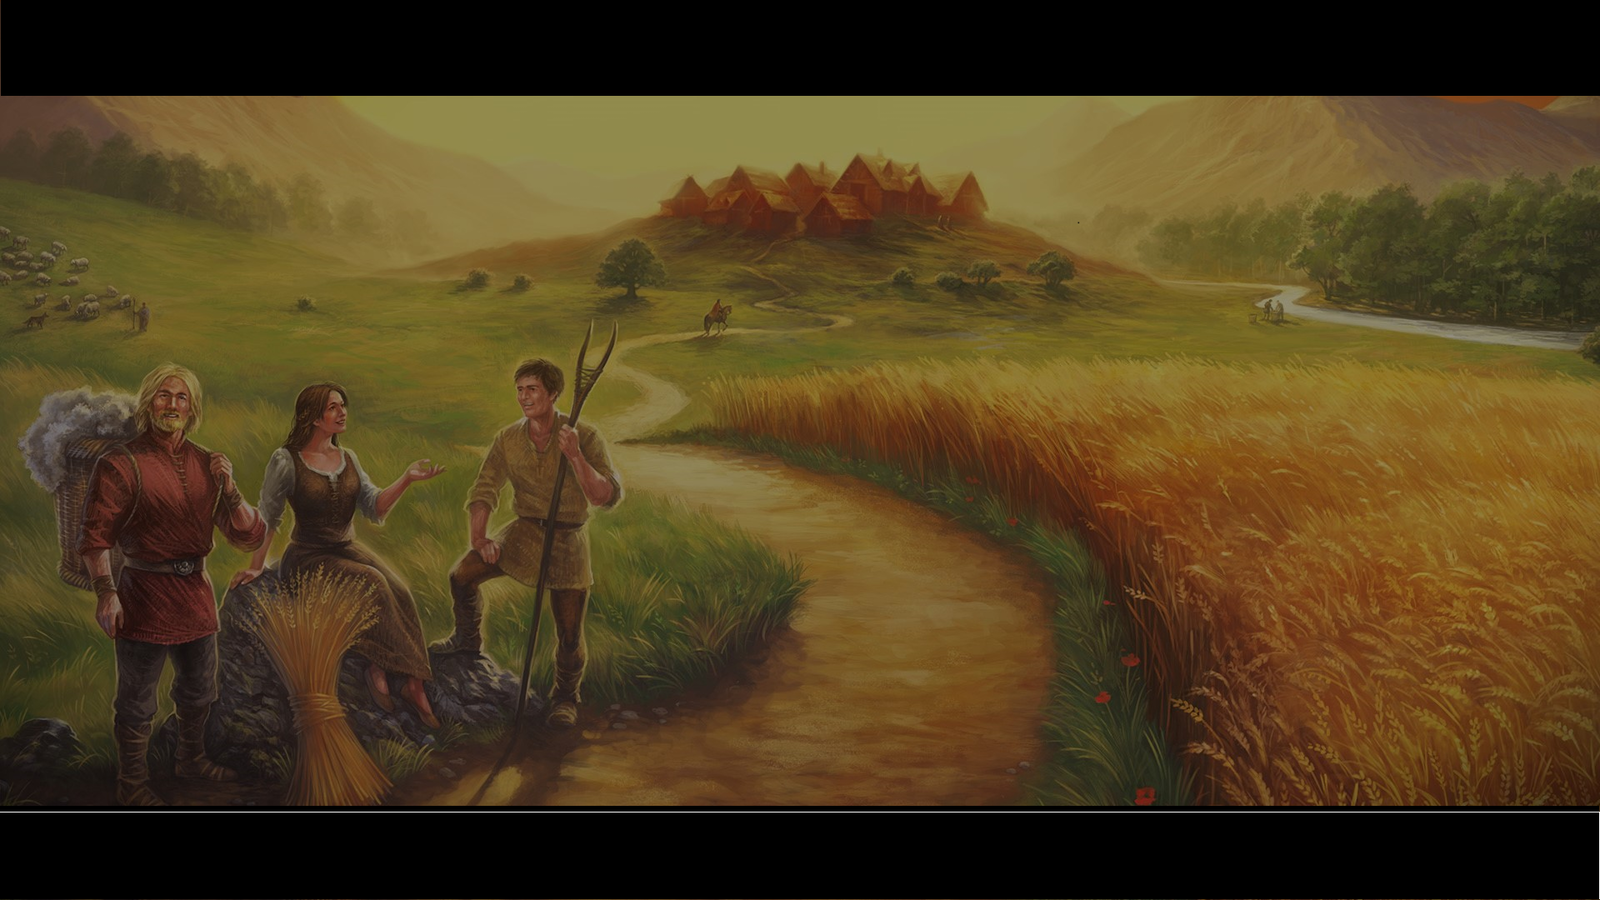
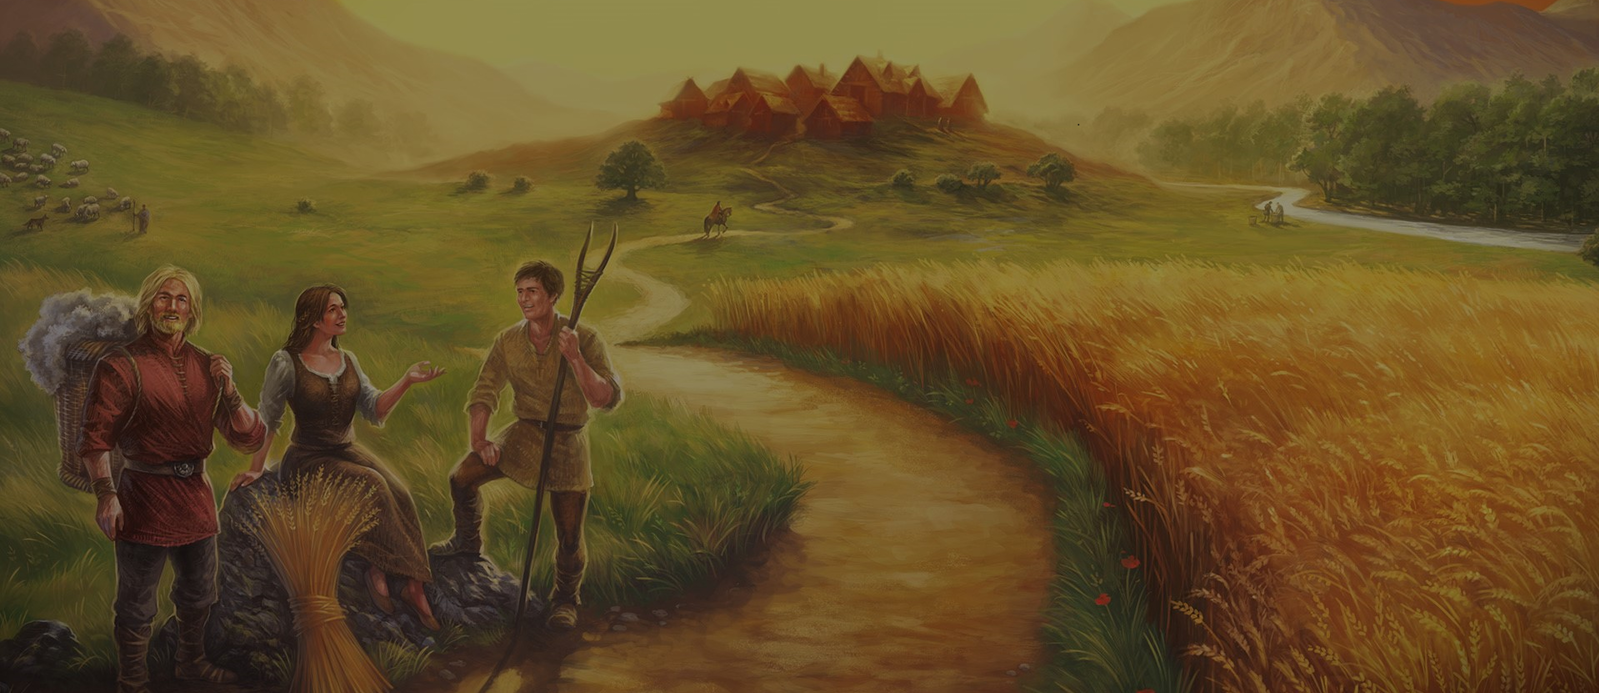
migrated menu to main.py using pygame_gui

diff --git a/main.py b/main.py
@@ -29,15 +29,14 @@ clock = pygame.time.Clock()
 def main_menu():
     '''Run game start menu'''
     is_running = True
-
-    start_game = pygame_gui.elements.UIButton(relative_rect=pygame.Rect((350, 275), (100, 50)),
-                                             text='Start Game',
+    background.blit(menu_background,(0,0))
+    start_game = pygame_gui.elements.UIButton(relative_rect=pygame.Rect((SCREEN_WIDTH // 3, SCREEN_HEIGHT // 3), (SCREEN_WIDTH / 4, 50)),
+                                             text='START GAME',
                                              manager=manager)
-    
-    
-
+    quit_game = pygame_gui.elements.UIButton(relative_rect=pygame.Rect((SCREEN_WIDTH // 3, SCREEN_HEIGHT // 2), (SCREEN_WIDTH / 4, 50)),
+                                             text='QUIT GAME',
+                                             manager=manager)
     while is_running:
-        background.fill(BLACK)
         time_delta = clock.tick(60)/1000.0
         for event in pygame.event.get():
             if event.type == pygame.QUIT:
@@ -47,7 +46,8 @@ def main_menu():
                 if event.ui_element == start_game:
                     mode_menu()
                     is_running = False
-
+                if event.ui_element == quit_game:
+                    is_running = False
             manager.process_events(event)
 
         manager.update(time_delta)
@@ -62,18 +62,23 @@ def mode_menu():
     '''Run menu page for game modes'''
     manager.clear_and_reset()
     is_running = True
+    background.blit(menu_background,(0,0))
+    option_label = pygame_gui.elements.UILabel(relative_rect=pygame.Rect((SCREEN_WIDTH // 3, SCREEN_HEIGHT//4), (SCREEN_WIDTH / 4, 50)),
+                                             text='Select Board Type',
+                                             manager=manager)
 
-    default_board = pygame_gui.elements.UIButton(relative_rect=pygame.Rect((350, 275), (100, 50)),
+    default_board = pygame_gui.elements.UIButton(relative_rect=pygame.Rect((SCREEN_WIDTH // 3, SCREEN_HEIGHT // 2), (SCREEN_WIDTH / 4, 50)),
                                              text='Default Board',
                                              manager=manager)
     
-    random_board = pygame_gui.elements.UIButton(relative_rect=pygame.Rect((350, 275 * 2), (100, 50)),
+    random_board = pygame_gui.elements.UIButton(relative_rect=pygame.Rect((SCREEN_WIDTH // 3, SCREEN_HEIGHT // 3), (SCREEN_WIDTH / 4, 50)),
                                              text='Random Board',
                                              manager=manager)
     
 
+
     while is_running:
-        background.fill(BLACK)
+        
         time_delta = clock.tick(60)/1000.0
         for event in pygame.event.get():
             if event.type == pygame.QUIT:
@@ -261,9 +266,10 @@ def import_assets():
     ore = pygame.image.load("assets\Ore.png").convert_alpha()
     wool = pygame.image.load("assets\Wool.png").convert_alpha()
     water = pygame.image.load("assets\Hex.png").convert_alpha()
-    return desert,brick,grain,lumber,ore,wool,water
+    menu_background = pygame.image.load("assets\menu_image.png").convert_alpha()
+    return desert,brick,grain,lumber,ore,wool,water, menu_background
 
-desert, brick, grain, lumber, ore, wool, water = import_assets()
+desert, brick, grain, lumber, ore, wool, water, menu_background = import_assets()
 
 def textureToVal(value):
     '''Converts resources for a tile into a texture'''
@@ -308,7 +314,8 @@ def draw_board(board, destination):
             pass
         if board.tiles[coord] != 'Water':
            destination.blit(textureToVal(board.tiles[coord].resource),hexToPixel(75,coord.q,coord.r, 0))
-           pygame_gui.elements.UILabel(relative_rect=pygame.Rect(hexToPixel(75,coord.q,coord.r, 0)[0],hexToPixel(75,coord.q,coord.r, 0)[1],150,150),text=str(board.tiles[coord].returnNum()),object_id=pygame_gui.core.ObjectID(class_id='@rollNums'),manager=manager)
+           pygame.draw.circle(destination,WHITE,(hexToPixel(75,coord.q,coord.r, 70)[0],hexToPixel(75,coord.q,coord.r, 70)[1]),20)
+           pygame_gui.elements.UILabel(relative_rect=pygame.Rect(hexToPixel(75,coord.q,coord.r, -5)[0],hexToPixel(75,coord.q,coord.r, -5)[1],150,150),text=str(board.tiles[coord].returnNum()),object_id=pygame_gui.core.ObjectID(class_id='@rollNums'),manager=manager)
         
         elif coord not in skip and board.tiles[coord] == 'Water':
             destination.blit(water, hexToPixel(75,coord.q,coord.r, 0))
